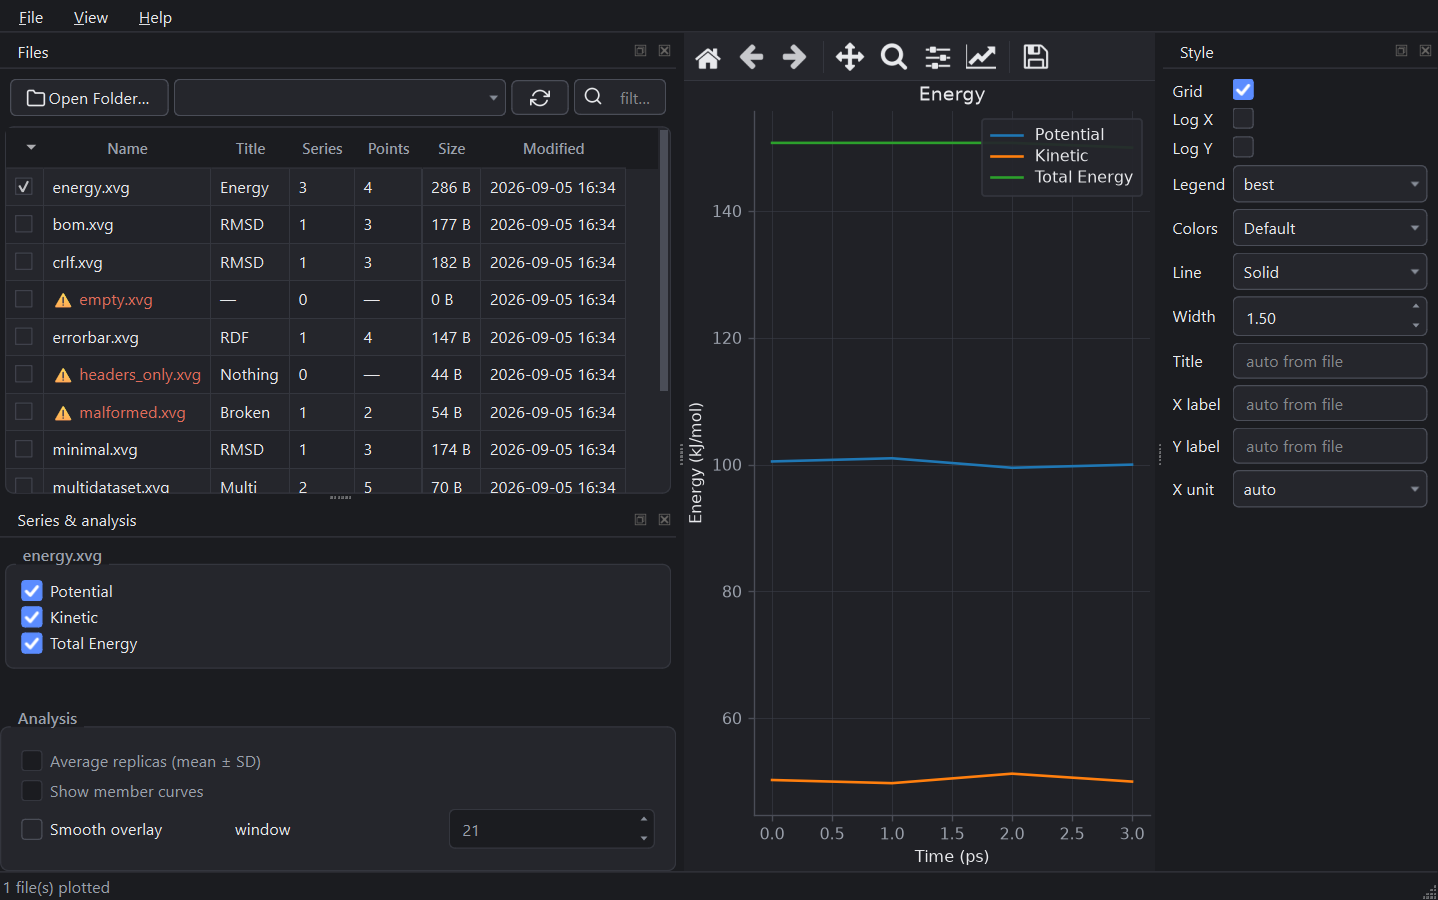
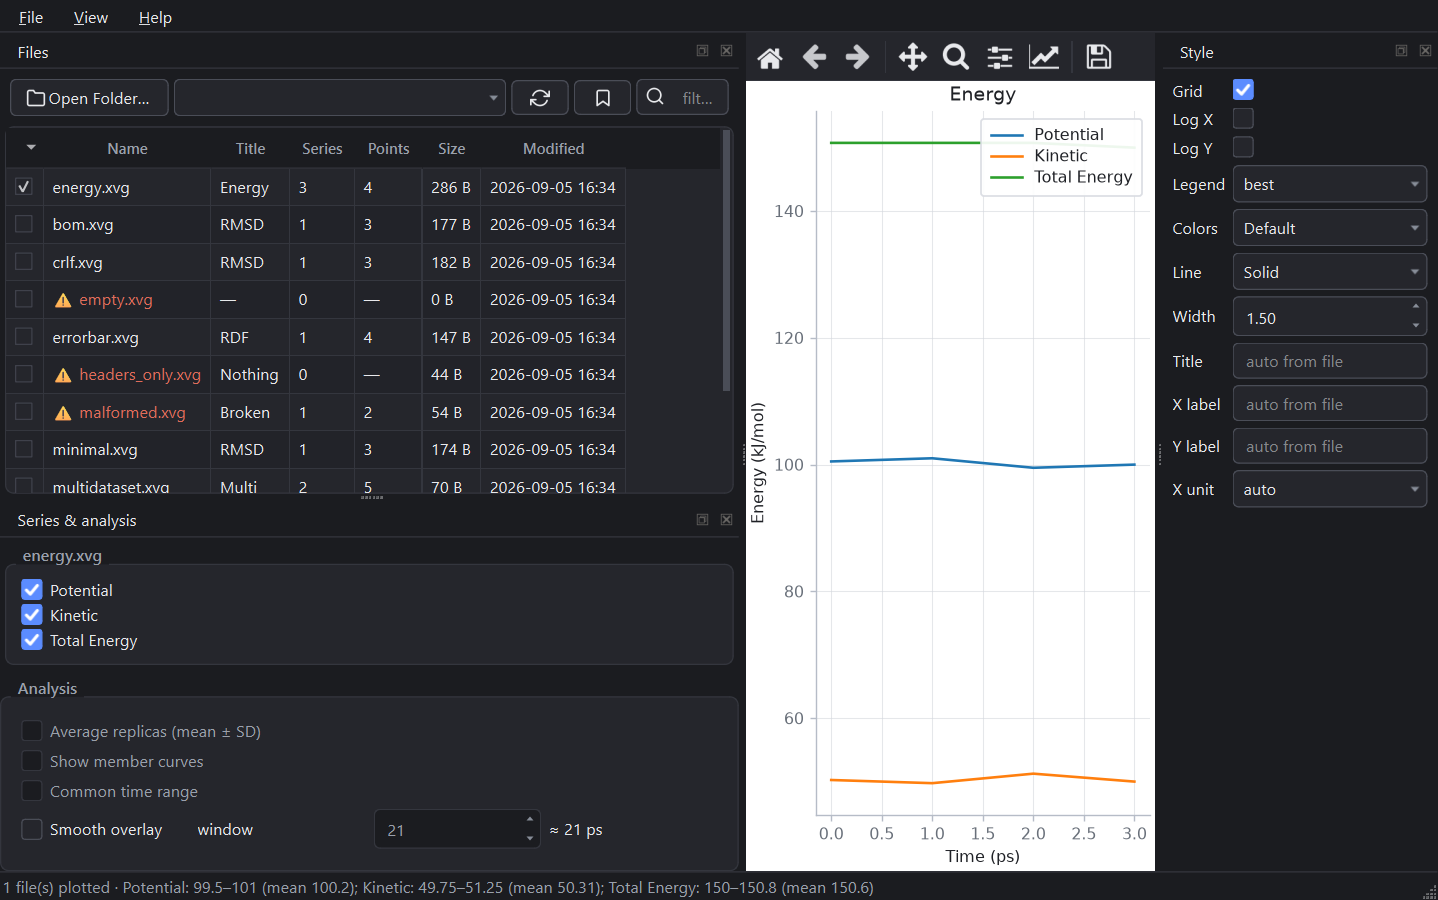
Keep the plot canvas publication-light in dark mode
Plots are for papers; only the UI chrome follows the dark/light setting.
Canvas, axes, legend and exports always render on white.

Changed region(s): [[0.0918, 0.0311, 0.8261, 0.9956], [0.0, 0.6533, 0.2142, 0.9333], [0.3672, 0.9022, 0.3978, 0.9333]]

diff --git a/src/xvg_plotter/ui/plot_canvas.py b/src/xvg_plotter/ui/plot_canvas.py
@@ -16,7 +16,7 @@ from PySide6.QtGui import QColor, QIcon, QImage, QPainter, QPixmap
 from PySide6.QtWidgets import QVBoxLayout, QWidget
 
 from .options import LEGEND_LOCS, LINE_STYLES, PALETTES  # noqa: F401  (re-exported)
-from .theme import Tokens, current
+from .theme import LIGHT, Tokens, current
 from ..core import analysis
 
 
@@ -115,6 +115,9 @@ class PlotPanel(QWidget):
         self.apply_theme(current())
 
     def apply_theme(self, t: Tokens) -> None:
+        # the plot stays publication-light in every UI theme (academia style);
+        # only the chrome (toolbar, docks) follows the dark/light setting
+        t = LIGHT
         self._tokens = t
         mpl.rcParams.update({
             "font.size": 9,

diff --git a/tests/test_ui_smoke.py b/tests/test_ui_smoke.py
@@ -422,3 +422,12 @@ def test_c07_checksums(tmp_path):
     mod._checksums([tmp_path / "missing.exe"], empty.parent)
     assert not (tmp_path / "SHA256SUMS.txt").exists() or \
         "none.txt" not in (tmp_path / "SHA256SUMS.txt").read_text(encoding="utf-8")
+
+
+def test_plot_stays_light_in_dark_mode(app):
+    from xvg_plotter.ui import theme
+    from xvg_plotter.ui.plot_canvas import PlotPanel
+    panel = PlotPanel()
+    panel.apply_theme(theme.DARK)
+    r, g, b, _ = panel.fig.get_facecolor()
+    assert (r, g, b) == (1.0, 1.0, 1.0)  # canvas stays publication-white

diff --git a/README.md b/README.md
@@ -43,7 +43,8 @@ including overlays, replica averaging, and clipboard-ready exports for slides.
 - **Interact**: pan, zoom, home, live cursor coordinates; click a legend entry to
   show/hide a series. Style tweaks keep your zoom. Drag `.xvg` files or folders
   straight onto the window.
-- **Theme**: polished light & dark UI (Fusion + themed matplotlib canvas).
+- **Theme**: polished light & dark UI (Fusion). The plot canvas stays light
+  (publication-style) in both themes, so figures read like paper figures.
   Auto (follows the OS) / Light / Dark, remembered between runs.
 - **Export**: PNG/TIFF (DPI 100–600), PDF, SVG, EPS, transparent background — plus
   *Copy Image* straight to the clipboard for slides (rendered at the export DPI).
